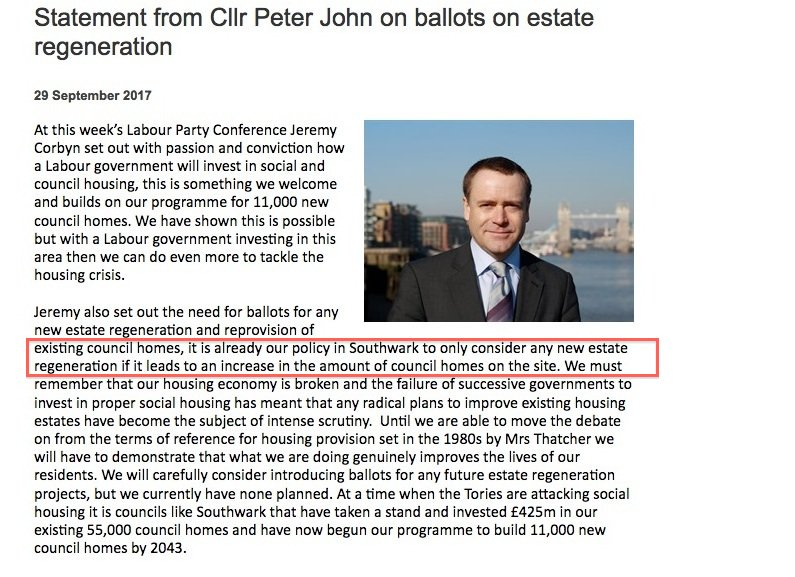
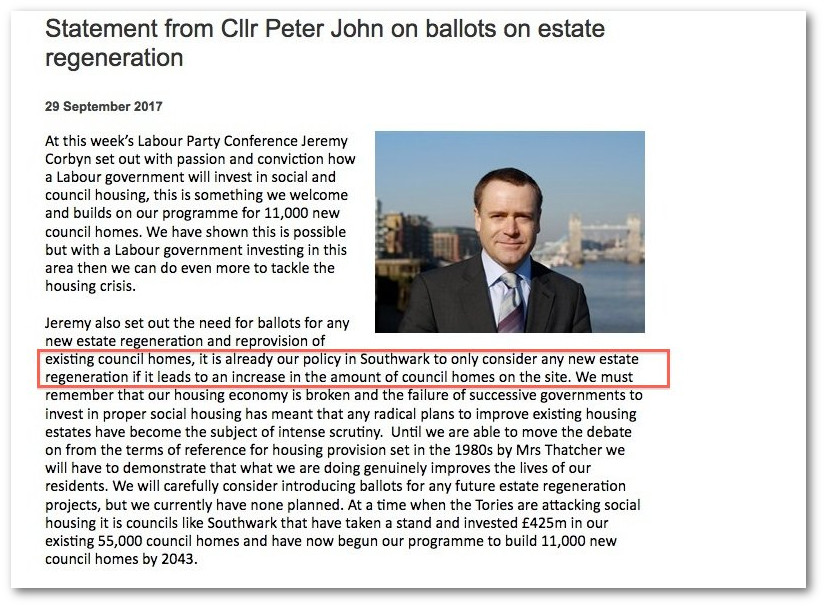
stop press

Changed region(s): [[0.0, 0.0312, 0.9962, 0.9983], [0.0302, 0.0, 0.7547, 0.1248], [0.0302, 0.156, 0.2113, 0.1872]]

diff --git a/_posts/2017-10-10-council-leader-inaccurate-figures.md b/_posts/2017-10-10-council-leader-inaccurate-figures.md
@@ -37,5 +37,12 @@ All the evidence though, is that Southwark is deaf to its communities, particula
 
 When it comes to developers though, Southwark is all ears; as Private Eye has noted in the past and our [growing dossier](http://35percent.org/revolving-doors) shows, an increasing number of Southwark Labour members and officials with links to the development industry. If Jeremy Corbyn's encouraging words that ['regeneration under a Labour government will be for the benefit of the local people, not private developers, not property speculators'](https://www.totalpolitics.com/articles/news/jeremy-corbyn%E2%80%99s-2017-labour-conference-speech-full-transcript) are to be made something more than a conference sound-bite, then the Labour Party needs to get its house in order and break these ties.
 
-![](http://crappistmartin.github.io/images/private-eye-southwark-council-developers.png)
+![](http://35percent.org/img/private-eye-southwark-council-developers.png)
 
+## Stop press
+Cllr John has issued a [press statement](http://southwarklabour.co.uk/latest-news/southwark/news.aspx?p=102392) in response to Jeremy Corbyn's speech.
+
+![](http://35percent.org/img/statementpjestateballots.jpg)
+
+He says that his Council already only considers estate regeneration where there is no net loss in council homes. 
+This is utter crap as none of the replacement 'social housing' on the Aylesbury will be council homes and even if they are [provided at social rent rather than affordable rent](http://35percent.org/redefining-social-rent) as we suspect, there will be still be a minimum net loss of 778 social rented units.  
